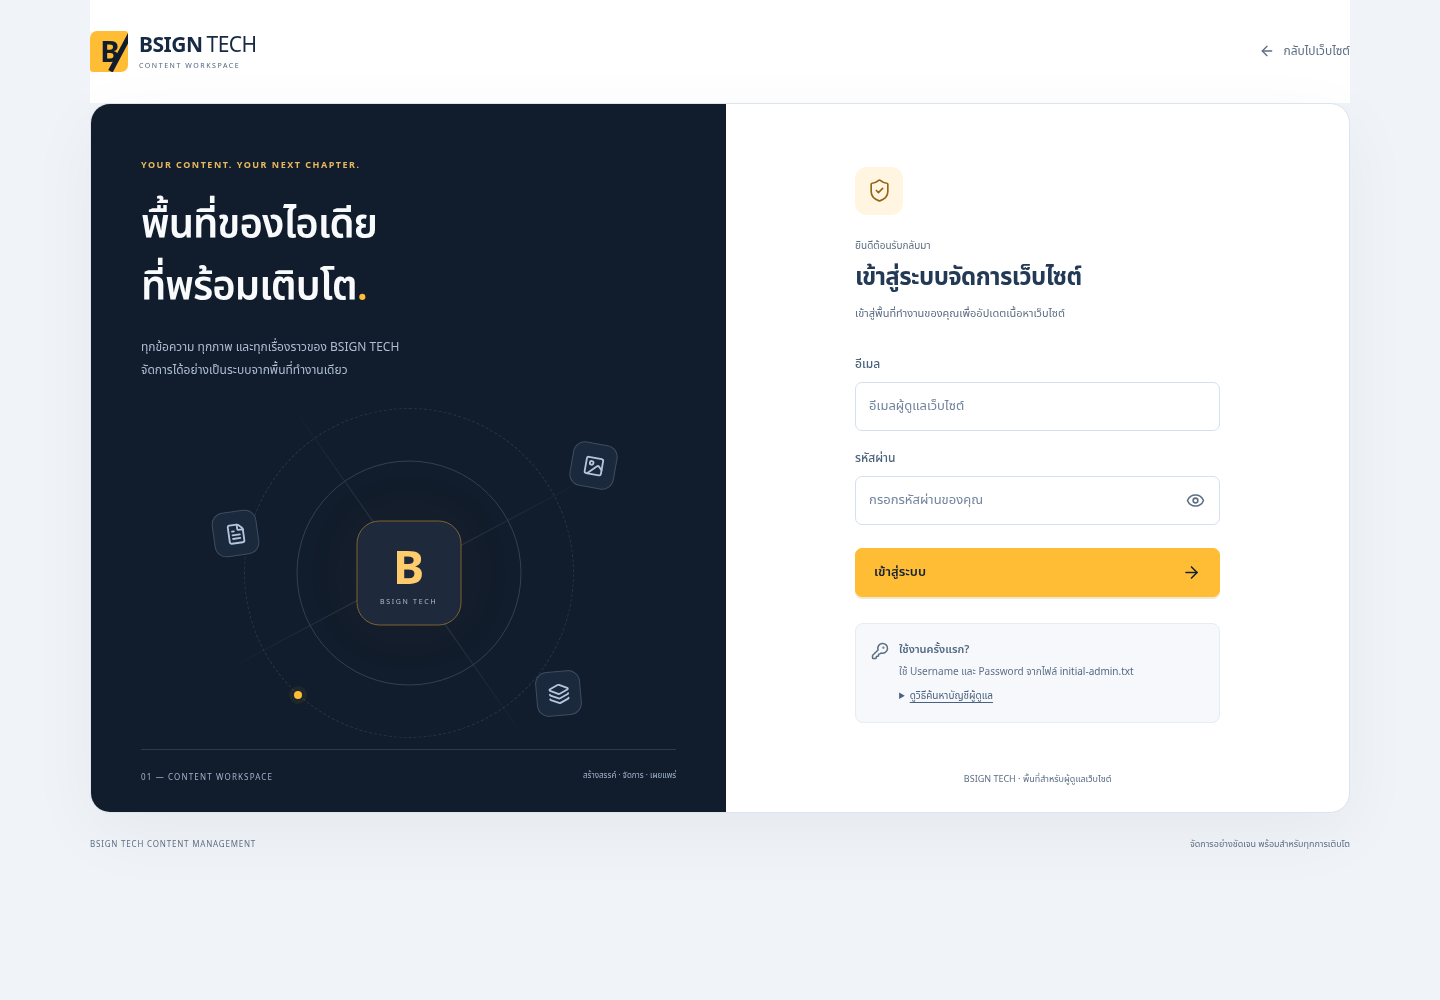
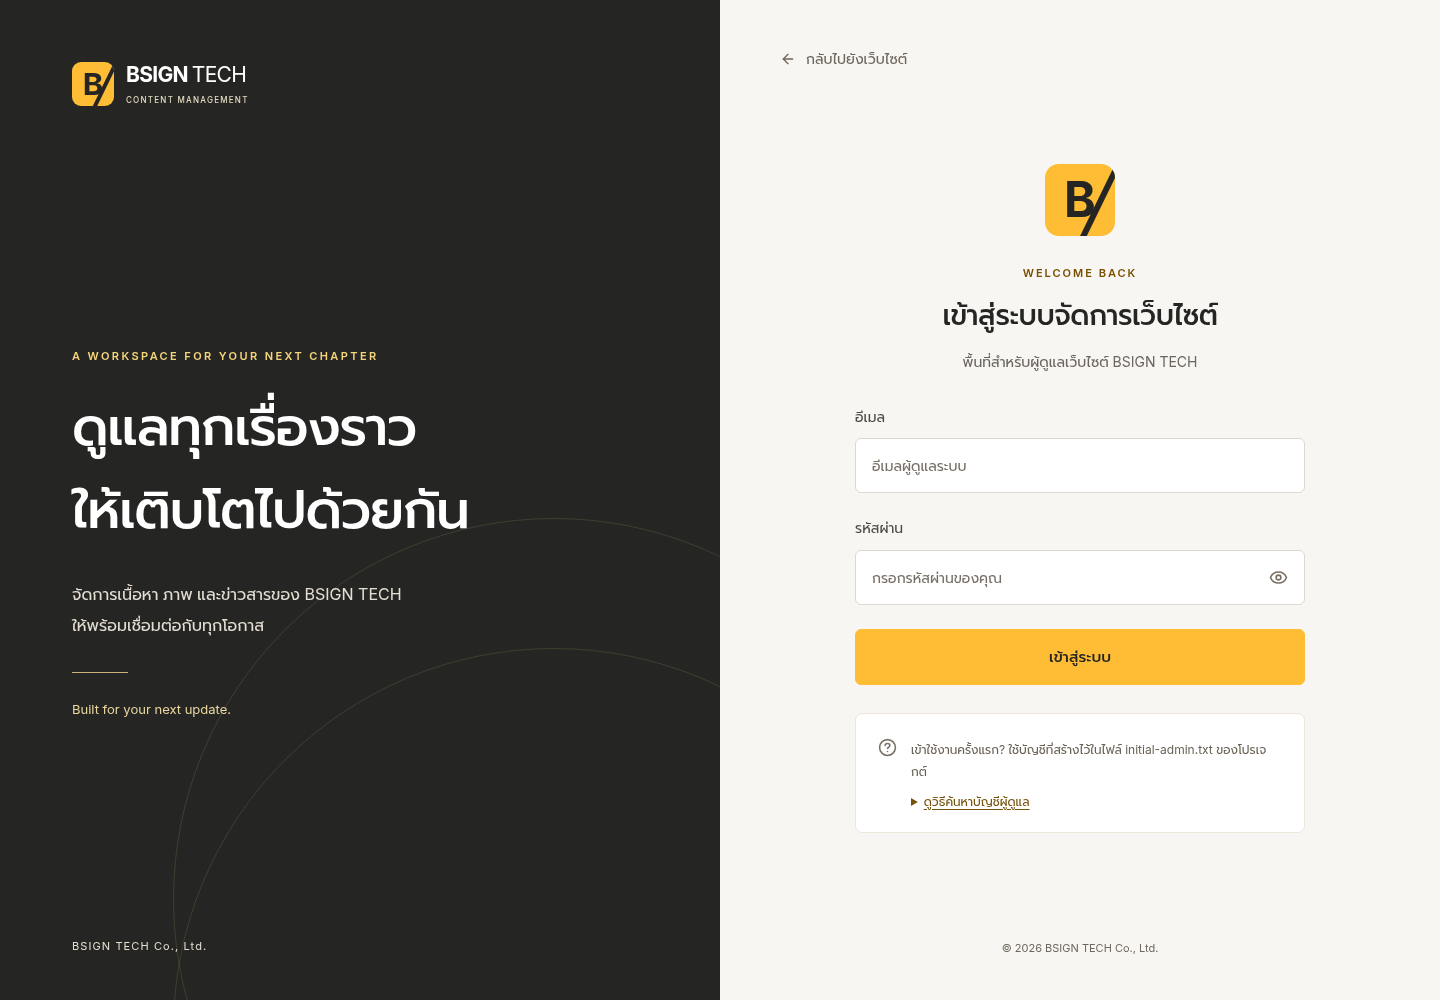
docs: record v1.4.0 screenshots and verified Windows preview

diff --git a/docs/VALIDATION.md b/docs/VALIDATION.md
@@ -12,10 +12,17 @@
 | Accessibility | axe WCAG A/AA ไม่พบ violation ในหน้าที่ตรวจ รวม login/dashboard/editor/articles/media และหน้ามือถือ |
 | หน้าบ้าน 53 กรณี | TH/EN ทั้ง 5 หน้า รูป/overflow, public axe, ฟอร์มจริง, CMS edit/upload/icons, computed styles ข้ามหน้าและ keyboard ผ่าน |
 | เปิดพรีวิวและบัญชี | browser สร้างบัญชีเอง/กู้บัญชี และใช้ Username/Password จาก initial-admin → /admin → logout → restart → login ผ่าน |
-| ตัวเปิด Windows | hash generator --check ผ่าน; ผล Windows CI ของรุ่นนี้ระบุด้านล่างก่อนส่งมอบ |
+| Docker / Compose | build image v1.4.0 ผ่าน, HTTP/API, non-root และข้อมูลอยู่หลังเปลี่ยน container ผ่าน; Compose config ผ่าน |
+| ตัวเปิด Windows | hash generator --check และ Windows CI ของรุ่นนี้ผ่าน รายละเอียดด้านล่าง |
 | การตรวจภาพ | ตรวจ login/dashboard/editor/mobile จากระบบจริง; ภาพสะอาดใน docs/screenshots ไม่มีรหัสผ่านในภาพ |
 
-ผล Windows CI และ Docker ของชุดส่งมอบอยู่ระหว่างรวบรวมก่อนสร้าง tag
+Windows Server 2022 x64 / PowerShell 5.1 ผ่าน [Windows preview run #14](https://github.com/chanakan20010-cpu/BSIGN-WEB/actions/runs/43440206336) — implementation commit `f070bd51ec8e66b200d89b13c1253022af39482f` สถานะ workflow และ job เป็น Success (2 นาที 34 วินาที):
+
+- แตก source ZIP ลงโฟลเดอร์ที่มีช่องว่างและภาษาไทย ตรวจ START-WINDOWS กับ NTFS Zone.Identifier เพื่อจำลองไฟล์ดาวน์โหลด รวมการปฏิเสธไฟล์ที่ถูกแก้และปลดบล็อกเฉพาะสคริปต์ที่ตรวจ hash แล้ว
+- ตรวจ CMD/portable Node, initial-admin login/restart, WinForms และ GUI/VBS โดยไม่เปลี่ยน Execution Policy ถาวร
+- API 23 ชุด และ Edge browser สำหรับ setup/recovery, initial-admin และ Admin UX 61 กรณีผ่านตามขั้นตอนที่กำหนดใน workflow
+
+CI ใช้ Edge headless; ยืนยันสถานะสำเร็จจากหน้า workflow/job สาธารณะ ไม่ได้อ่าน log รายขั้นที่ต้องเข้าสู่ระบบ การจำลอง Mark-of-the-Web บนไฟล์ที่แตกแล้วไม่ใช่การดาวน์โหลดผ่านเบราว์เซอร์และแตก ZIP ด้วย Explorer บนเครื่องผู้ใช้จริง
 
 ข้อจำกัด: axe และ keyboard ไม่เท่ากับทดสอบ screen reader จริง เช่น NVDA/VoiceOver; ยังไม่ได้ตรวจ Safari/Firefox, Windows ARM64 หรือเครื่องผู้ใช้จริงทุก build หน้า System มีสถานะและคู่มือสำรองข้อมูลตามระบบเดิม ไม่ได้เพิ่มปุ่ม backup/restore บนเว็บ SMTP จริง, iframe Maps และ URL LinkedIn ยังต้องเติมข้อมูล/ทดสอบตามขอบเขตเดิมด้านล่าง ไม่มีการ deploy โดเมนสาธารณะหรือ push Docker image ไป registry ในรอบนี้
 
